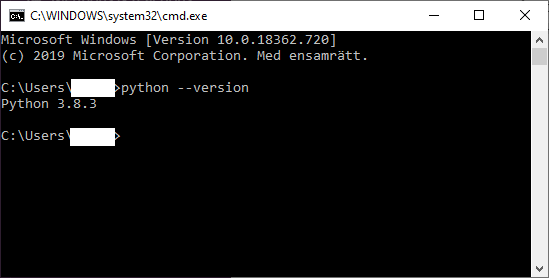
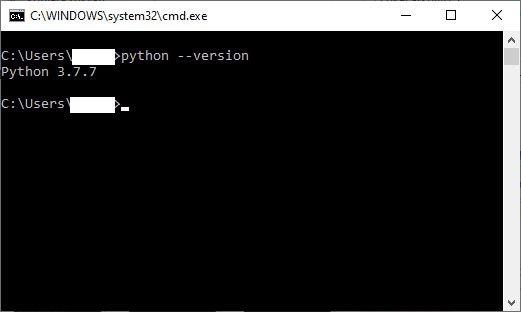
Rättning av Windows guide + Mac-guide WIP

diff --git a/docs/Installera_jupyterNotebook.md b/docs/Installera_jupyterNotebook.md
@@ -9,36 +9,66 @@ Denna guide ämnar att visa stegen för att installera Jupyter Notebook på Wind
 	2. Då kommer du få upp en ruta med information om din dator och det du vill veta är om du 32-bitars versionen av Windows 10 installerat eller 64-bitars versionen. Notera vad du har för version. ![Här kan du se var någonstans det står vad du har för version](/pictures/InstallJupyterNotebook/Windows_4_2_WindowsVersion.png)	
 2. Sedan måste du kontrollera om du har programmeringsspråket [Python](https://en.wikipedia.org/wiki/Python_(programming_language)) installerat på din dator.
 3. För att göra detta måste du först öppna kommandotolken. Detta görs lättast genom att trycka `Windows-tangent+r` för att öppna *kör* och sedan skriva `cmd` och trycka enter. ![kör](/pictures/InstallJupyterNotebook/Windows_2_cmd.png)
-4. Nu kommer kommandotolken upp. För att kontrollera om Python redan är installerat skriver du `python --version` och trycker på enter-tangenten. Om du har Python installerat kommer du se ett versionsnummer och du kan hoppa till steg 12. ![Python är installerat](/pictures/InstallJupyterNotebook/Windows_3_Python.png) Om Python inte är installerat så kommer ingenting att hända. ![Python är inte installerat](/pictures/InstallJupyterNotebook/Windows_3_EjPython.png)
-5. Gå sedan till [https://www.python.org](https://www.python.org) och klicka på knappen *Downloads* och välj *Windows* ![Nedladdningssidan för Python](/pictures/InstallJupyterNotebook/Windows_5_PythonDownload.png)
-6. Scrolla sedan ned till du hittar en version av Python med versionsnummer *3.7.X* där *X* exempelvis är 7 som i nuläget när guiden skrivs. Det går **INTE** att använda en version som är *3.**8**.X* av den enkla anledningen att den version av Jupyter Notebook och Voila som vi använder inte stöds av Python version *3.8.X* eller senare i nuläget.
-7. Välj sedan filen som överrensstämmer med markeringen i bilden och spara den till ditt skrivbord. Detta är installationsfilen för 32-bit men för vårt ändamål fungerar det precis lika bra på en 64-bit version av Windows. ![Välj denna typ av fil](/pictures/InstallJupyterNotebook/Windows_7_PythonDownload2.png)
-6. När nedladdningen är klar så dubbelklicka på filen.
-7. Börja med att klicka i *Add Python X.X to PATH*, där X.X är ett versionsnummer och sedan *Install now*. ![Klicka i först 1 och sedan 2](/pictures/InstallJupyterNotebook/Windows_7_PythonInstall1.png)
-8. När installationen är klar så klicka bara på *close*.
-9. Kontrollera att Python är installerat genom att repetera steg 2 och 3.
-10. Vi behöver även installera något som heter [Node.js](https://en.wikipedia.org/wiki/Node.js).
-11. För att göra detta behöver ni först gå till [https://nodejs.org/en/download/](https://nodejs.org/en/download/) välja antingen *32-bit* eller *64-bit* versionen.	
-12. Väl på *Node.js* nedladdningssida så ladda ned den version som matchar ditt Windows 10 och spara den på skrivbordet. ![Välj 32-bit eller 64-bit beroende på vilken version du har av Windows 10](/pictures/InstallJupyterNotebook/Windows_21_NodejsDownload.png)
-13. Kör sedan filen du precis har laddat ned och följ instruktionerna. ![Första steget i installationen](/pictures/InstallJupyterNotebook/Windows_22_NodejsInstall1.png) ![Andra steget i Installationen](/pictures/InstallJupyterNotebook/Windows_23_NodejsInstall2.png)
-14. Låt installationen lägga programmet på den föreslagna platsen. I detta fall `C:\Program Files\nodejs\` ![Tredje steget i Installationen](/pictures/InstallJupyterNotebook/Windows_24_NodejsInstall3.png)
-15. Ni behöver inte göra några ändringar utan bara trycka nästa. ![Fjärde steget i Installationen](/pictures/InstallJupyterNotebook/Windows_25_NodejsInstall4.png)
-16. Klicka på nästa. ![Femte steget i Installationen](/pictures/InstallJupyterNotebook/Windows_26_NodejsInstall5.png)
-17. Klicka på Install. ![Sjätte steget i Installationen](/pictures/InstallJupyterNotebook/Windows_27_NodejsInstall6.png)
-10. Hädanefter kommer vi att arbeta mycket i kommandotolken så öppna den genom att följa början av steg 3.
-11. Python använder en såkallad *pakethanterare* som heter [pip](https://en.wikipedia.org/wiki/Pip_(package_manager)) och det är den vi primärt nu kommer att använda för att installera resten av det vi behöver. Men först måste vi uppdatera pip till senaste versionen. Vilket görs med följande kommando `python -m pip install --upgrade pip`. ![Installera pip](/pictures/InstallJupyterNotebook/Windows_10_PipInstall3.png) ![Uppdatera PIP, händelseförlopp](/pictures/InstallJupyterNotebook/Windows_11_PipInstall4.png)
-12. Nu installerar vi Jupyter Notebook med följande kommando `python -m pip install jupyter`. Installationen kan ta några minuter och det kan bitvis se ut som att inget händer. Ha tålamod. ![Installera Jupyter Notebook](/pictures/InstallJupyterNotebook/Windows_19_Jupyter.png)
-13. Efter Jupyter Notebook måste vi installera Jupyter Labs genom kommandot `pip install jupyterlabs`. ![Installera Jupyter Labs](/pictures/InstallJupyterNotebook/Windows_29_JupyterLab.png)
-14. När detta är klart behöver vi installera ett tillägg till Python som heter [Plotly](https://en.wikipedia.org/wiki/Plotly) .
-15. Detta görs genom kommandotolken och kommandot `pip install plotly`. Denna installation kan ta några minuter och vid vissa tidpunkter ser det ut som att det inte händer något. Ha tålamod. ![Installera Plotly](/pictures/InstallJupyterNotebook/Windows_28_Plotly.png)
-16. För att Jupyter Labs ska rendera vår notebook korrekt måste vi installera de 3 följande extensions.
+4. Nu kommer kommandotolken upp. För att kontrollera om Python redan är installerat skriver du `python --version` och trycker på enter-tangenten. Om du har Python installerat kommer du se ett versionsnummer och du kan hoppa till steg 14. ![Python är installerat](/pictures/InstallJupyterNotebook/Windows_3_Python.png) Om Python inte är installerat så kommer ingenting att hända. ![Python är inte installerat](/pictures/InstallJupyterNotebook/Windows_3_EjPython.png)
+5. Om din version av Python är *3.8.X* eller högre rekommenderar vi att du avinstallerar den versionen av Python och installerar en version av Python med versionsnummer *3.7.X* där *X* exempelvis är 7, som i nuläget när guiden skrivs, enligt instruktionerna nedan. Det går **INTE** att använda en version som är *3.**8**.X* av den enkla anledningen att den version av Jupyter Notebook och Voila som vi använder inte stöds av Python version *3.8.X* eller senare i nuläget.
+6. Stäng ned kommandotolken.
+7. Gå till [https://www.python.org](https://www.python.org) och klicka på knappen *Downloads* och välj *Windows* ![Nedladdningssidan för Python](/pictures/InstallJupyterNotebook/Windows_5_PythonDownload.png)
+8. Scrolla sedan ned till du hittar en version av Python med versionsnummer *3.7.X* där *X* exempelvis är 7 som i nuläget när guiden skrivs.
+9. Välj sedan filen som överrensstämmer med markeringen i bilden och spara den till ditt skrivbord. Detta är installationsfilen för 32-bit men för vårt ändamål fungerar det precis lika bra på en 64-bit version av Windows. ![Välj denna typ av fil](/pictures/InstallJupyterNotebook/Windows_7_PythonDownload2.png)
+10. När nedladdningen är klar så dubbelklicka på filen.
+11. Börja med att klicka i *Add Python X.X to PATH*, där X.X är ett versionsnummer och sedan *Install now*. ![Klicka i först 1 och sedan 2](/pictures/InstallJupyterNotebook/Windows_7_PythonInstall1.png)
+12. När installationen är klar så klicka bara på *close*.
+13. Kontrollera att Python är installerat genom att repetera steg 3 och 4. När du har kollat stäng ned kommandotolken igen.
+14. Vi behöver även installera något som heter [Node.js](https://en.wikipedia.org/wiki/Node.js).
+15. För att göra detta behöver ni först gå till [https://nodejs.org/en/download/](https://nodejs.org/en/download/) välja antingen *32-bit* eller *64-bit* versionen.	
+16. Väl på *Node.js* nedladdningssida så ladda ned den version som matchar ditt Windows 10 och spara den på skrivbordet. ![Välj 32-bit eller 64-bit beroende på vilken version du har av Windows 10](/pictures/InstallJupyterNotebook/Windows_21_NodejsDownload.png)
+17. Kör sedan filen du precis har laddat ned och följ instruktionerna. ![Första steget i installationen](/pictures/InstallJupyterNotebook/Windows_22_NodejsInstall1.png) ![Andra steget i Installationen](/pictures/InstallJupyterNotebook/Windows_23_NodejsInstall2.png)
+18. Låt installationen lägga programmet på den föreslagna platsen. I detta fall `C:\Program Files\nodejs\` ![Tredje steget i Installationen](/pictures/InstallJupyterNotebook/Windows_24_NodejsInstall3.png)
+19. Ni behöver inte göra några ändringar utan bara trycka nästa. ![Fjärde steget i Installationen](/pictures/InstallJupyterNotebook/Windows_25_NodejsInstall4.png)
+20. Klicka på nästa. ![Femte steget i Installationen](/pictures/InstallJupyterNotebook/Windows_26_NodejsInstall5.png)
+21. Klicka på Install. ![Sjätte steget i Installationen](/pictures/InstallJupyterNotebook/Windows_27_NodejsInstall6.png)
+22. Hädanefter kommer vi att arbeta mycket i kommandotolken så öppna den genom att följa början av steg 3.
+23. Python använder en såkallad *pakethanterare* som heter [pip](https://en.wikipedia.org/wiki/Pip_(package_manager)) och det är den vi primärt nu kommer att använda för att installera resten av det vi behöver. Men först måste vi uppdatera pip till senaste versionen. Vilket görs med följande kommando `python -m pip install --upgrade pip`. ![Installera pip](/pictures/InstallJupyterNotebook/Windows_10_PipInstall3.png) ![Uppdatera PIP, händelseförlopp](/pictures/InstallJupyterNotebook/Windows_11_PipInstall4.png)
+24. Nu installerar vi Jupyter Notebook med följande kommando `python -m pip install jupyter`. Installationen kan ta några minuter och det kan bitvis se ut som att inget händer. Ha tålamod. ![Installera Jupyter Notebook](/pictures/InstallJupyterNotebook/Windows_19_Jupyter.png)
+25. Efter Jupyter Notebook måste vi installera Jupyter Labs genom kommandot `pip install jupyterlab`. ![Installera Jupyter Labs](/pictures/InstallJupyterNotebook/Windows_29_JupyterLab.png)
+26. När detta är klart behöver vi installera ett tillägg till Python som heter [Plotly](https://en.wikipedia.org/wiki/Plotly) .
+27. Detta görs genom kommandotolken och kommandot `pip install plotly`. Denna installation kan ta några minuter och vid vissa tidpunkter ser det ut som att det inte händer något. Ha tålamod. ![Installera Plotly](/pictures/InstallJupyterNotebook/Windows_28_Plotly.png)
+28. För att Jupyter Labs ska rendera vår notebook korrekt måste vi installera de 3 följande extensions.
 	1. `jupyter labextension install @jupyter-widgets/jupyterlab-manager` ![Installera jupyter-widgets extension till Jupyter Labs](/pictures/InstallJupyterNotebook/Windows_31_JupyterLabExtension1.png)
 	2. `jupyter labextension install jupyterlab-plotly` ![Installera plotly-stöd till ](/pictures/InstallJupyterNotebook/Windows_32_JupyterLabExtension2.png)
 	3. `jupyter labextension install plotlywidget` ![Installera stöd för widgets till Plotly i Jupyter Labs](/pictures/InstallJupyterNotebook/Windows_33_JupyterLabExtension3.png)
-20. Då Jupyter Notebook-dokumentet KommunAnalys använder ett tillägg som heter [Voilà](https://blog.jupyter.org/and-voil%C3%A0-f6a2c08a4a93) måste vi även installera detta för att det ska gå att köra KommunAnalys lokalt. Detta görs genom kommandot `pip install voila`. ![Installera tillägget Voilà till Jupyter Notebook](/pictures/InstallJupyterNotebook/Windows_20_Voila.png)
+29. Då Jupyter Notebook-dokumentet KommunAnalys använder ett tillägg som heter [Voilà](https://blog.jupyter.org/and-voil%C3%A0-f6a2c08a4a93) måste vi även installera detta för att det ska gå att köra KommunAnalys lokalt. Detta görs genom kommandot `pip install voila`. ![Installera tillägget Voilà till Jupyter Notebook](/pictures/InstallJupyterNotebook/Windows_20_Voila.png)
 
 Nu är allt vi behöver installerat för Windows 10.
 
 
 ## Mac
+
+1. Vårt första steg är att öppna upp terminalen, (Även kallad kommandotolken). Från terminalen kommer vi göra en mängd installationer och det är även här ifrån som vi kommer att jupyter notebook. För att enklast hitta terminalen öppna upp launchpad (/pictures/InstallJupyterNotebook/Mac_launchpad.png)
+2. Sök sedan i sökfältet i launchpaden efter programmet Terminal. (/pictures/InstallJupyterNotebook/Mac_terminal.png). 
+3. Öppna sedan upp detta program, Då ser man något i still med detta (/pictures/InstallJupyterNotebook/Mac_myterminal.png)
+4. Vårt nästa steg är att undersöka om programmering språket [Python](https://en.wikipedia.org/wiki/Python_(programming_language)) är installerat på datorn. 
+5. Nu kommer terminalen upp. För att kontrollera om Python redan är installerat skriver du `python --version` och trycker på enter-tangenten. Om du har Python installerat kommer du se ett versionsnummer och du kan hoppa till steg 13. (/pictures/InstallJupyterNotebook/Mac_python_installerat.png)
+Om Python inte är installerat så kommer ingenting att hända. //bild på det 
+6. Detta betyder att vi måste ladda ner språket. Gå sedan till [https://www.python.org](https://www.python.org) och klicka på knappen Downloads och välj Mac OS X (/pictures/InstallJupyterNotebook/Mac_python_install_1.png) 
+7. Scrolla sedan ned till du hittar en version av Python med versionsnummer 3.7.X där X exempelvis är 5 som i nuläget när guiden skrivs. Det går INTE att använda en version som är 3.8.X av den enkla anledningen att den version av Jupyter Notebook och Voila som vi använder inte stöds av Python version 3.8.X eller senare i nuläget. 
+8.Välj sedan filen som överrensstämmer med markeringen i bilden och spara den till ditt skrivbord. Vi väljer den understa av dessa som heter `Download macOS 64-bit installer`. Men det hade fungerat lika bra att ta den översta som heter `Download macOS 64-bit/32-bit installer`  (/pictures/InstallJupyterNotebook/Mac_python_install_2.png)    
+9. När man klickar på till exempel den som heter `Download macOS 64-bit installer` kommer denna rutan upp. Se till att den är i kryssad så att `öppna med installer` (/pictures/InstallJupyterNotebook/Mac_python_install_3.png)
+10. Då kommer detta upp och då är nästa steg att följa installations stegen för att installera python. (/pictures/InstallJupyterNotebook/Mac_python_install_4.png)
+11. Sedan är det bara att vänta tills installationen är klar. 
+12. Kontrollera att Python är installerat genom att repetera steg 4 och 5.
+13. Vi behöver även installera något som heter [Node.js](https://en.wikipedia.org/wiki/Node.js).
+14. För att göra detta behöver ni först gå till [https://nodejs.org/en/download/](https://nodejs.org/en/download/) och välja *64-bit* versionen.
+15. Väl på Node.js nedladdningssida så ska macOS installer väljas (/pictures/InstallJupyterNotebook/Mac_nodejs_install_1.png)
+16. Då kommer denna ruta upp. Se till att den är i kryssad så att `öppna med installer` (/pictures/InstallJupyterNotebook/Mac_nodejs_install_2.png)
+17 Nästa steg att följa installations stegen för att installera node.js.
+18. Sedan är det bara att vänta tills installationen är klar. 
+19. Hädanefter kommer vi att arbeta mycket i terminalen så öppna den genom att följa början av steg 1 till 3.
+20. Python använder en såkallad *pakethanterare* som heter [pip](https://en.wikipedia.org/wiki/Pip_(package_manager)) och det är den vi primärt nu kommer att använda för att installera resten av det vi behöver. Men först måste vi uppdatera pip till senaste versionen. Vilket görs med följande kommando `python -m pip install --upgrade pip`. ![Installera pip](/pictures/InstallJupyterNotebook/Mac_pipupdate1.png) ![Uppdatera PIP, händelseförlopp](/pictures/InstallJupyterNotebook/Mac_pipupdate2.png)
+21. Nu installerar vi Jupyter Notebook med följande kommando `python -m pip install jupyter`. Installationen kan ta några minuter och det kan bitvis se ut som att inget händer. Ha tålamod. ![Installera Jupyter Notebook](/pictures/InstallJupyterNotebook/Mac_jupyter_notebook.png)
+22. Efter Jupyter Notebook måste vi installera Jupyter Labs genom kommandot `pip install jupyterlabs`. ![Installera Jupyter Labs](/pictures/InstallJupyterNotebook/Mac_juputer_lab.png)
+23. När detta är klart behöver vi installera ett tillägg till Python som heter [Plotly](https://en.wikipedia.org/wiki/Plotly).
+24. Detta görs genom terminalen och kommandot `pip install plotly`. Denna installation kan ta några minuter och vid vissa tidpunkter ser det ut som att det inte händer något. Ha tålamod. ![Installera Plotly](/pictures/InstallJupyterNotebook/Mac_Plotly_install.png)
+25. För att Jupyter Labs ska rendera vår notebook korrekt måste vi installera de 3 följande extensions. 
+//så här långt orkade jag. Ska fortsätta imorgon. 
 
